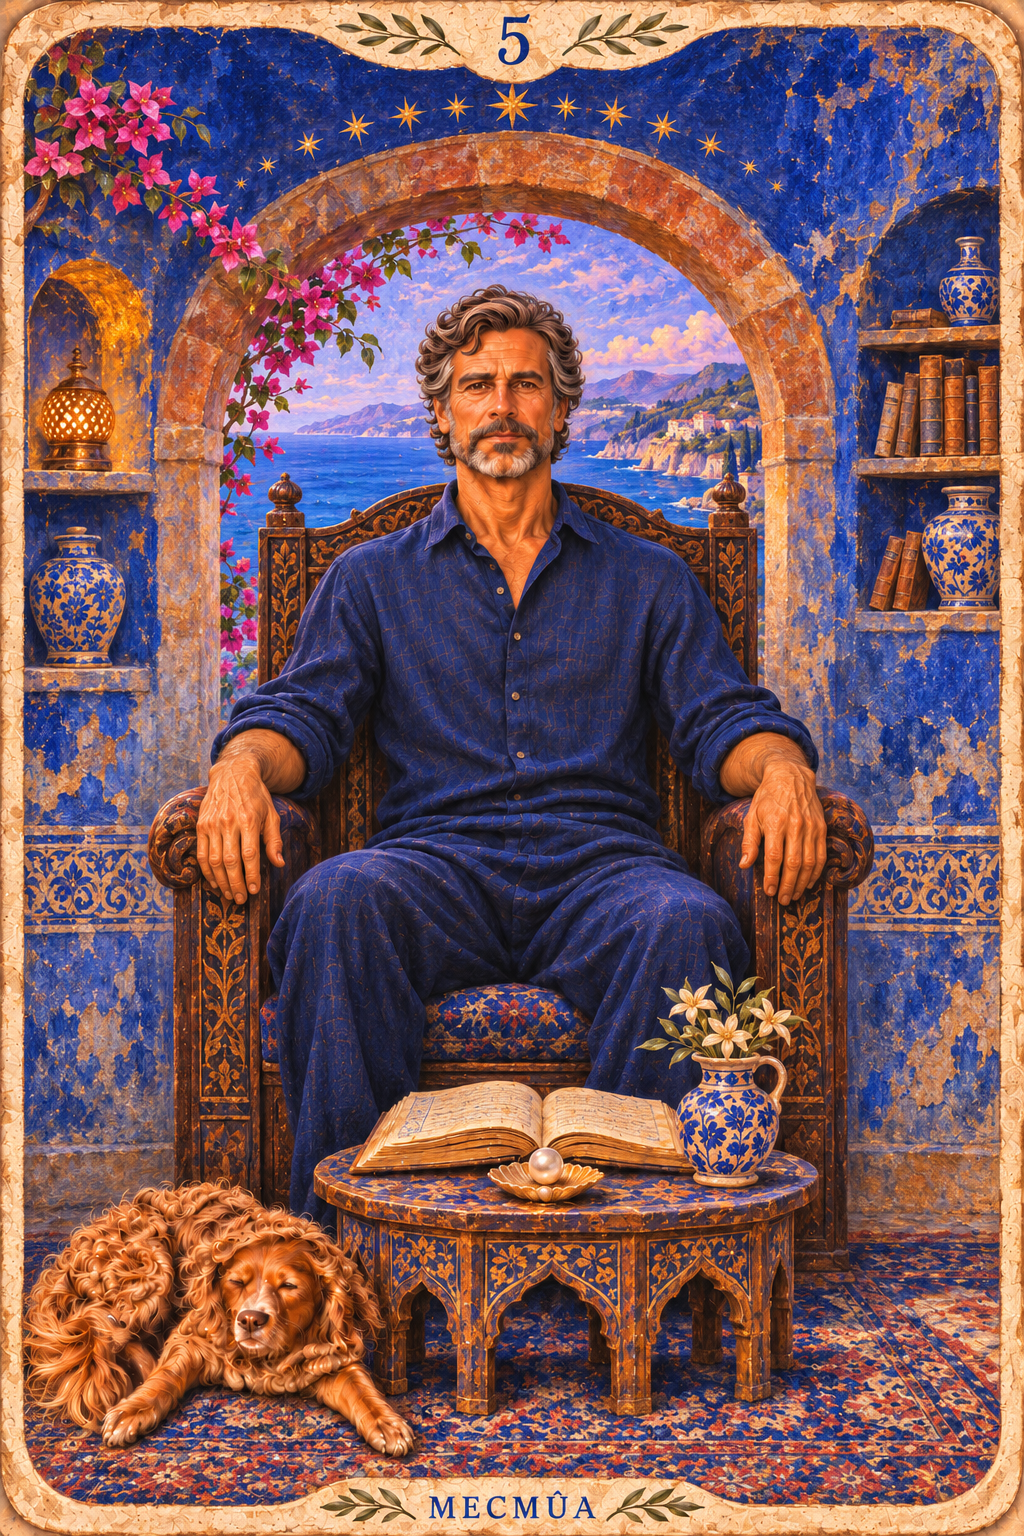
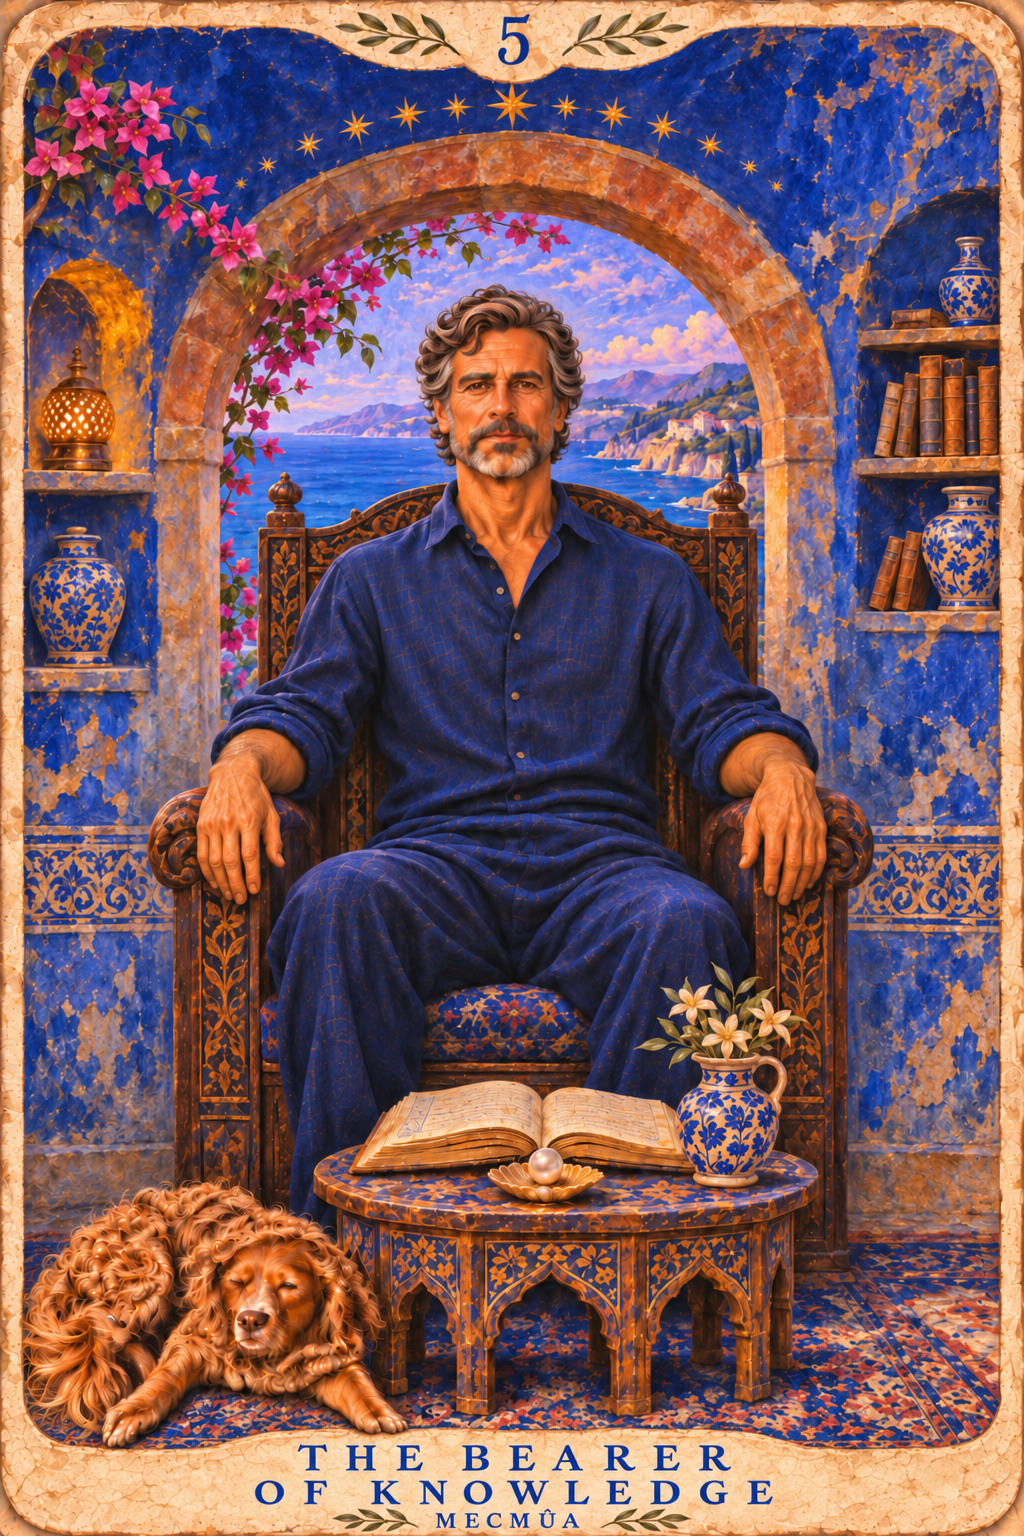
Restore exact uploaded original for card 5

diff --git a/dist/previews/wheel/index.html b/dist/previews/wheel/index.html
@@ -40,7 +40,7 @@ function updateMute(){mute.textContent=muted?'Sound off':'Sound on';mute.setAttr
 function tick(recordedSpin=false){clicker.classList.remove('hit');void clicker.offsetWidth;clicker.classList.add('hit');if(recordedSpin||muted||!context||!buffer||context.state!=='running')return;const now=context.currentTime;if(now-lastVoice<.025)return;lastVoice=now;const click=context.createBufferSource(),gain=context.createGain();click.buffer=buffer;gain.gain.value=.65;click.connect(gain);gain.connect(context.destination);click.start(0,.042,.045);}
 function render(a,recordedSpin=false){const before=Math.floor(angle/step),after=Math.floor(a/step);angle=a;world.style.transform=`rotate(${angle}deg)`;if(before!==after&&!recordedSpin)tick();}
 const cardDialog=document.getElementById('tarot-card'),cardThumb=document.getElementById('result-card'),viewCard=document.getElementById('view-card');function showCard(){const r=instrument.getBoundingClientRect();const cardHeight=Math.min(innerHeight*.54,490,innerWidth*1.2);cardDialog.style.top=Math.max(scrollY+40,scrollY+r.top+r.height*.4785-cardHeight/2)+'px';cardDialog.show();cardDialog.querySelector(".card-turn").focus({preventScroll:true});}document.addEventListener('keydown',e=>{if(e.key==='Escape'&&cardDialog.open)cardDialog.close();});const flipButton=cardDialog.querySelector('.card-turn'),cardBack=cardDialog.querySelector('.card-back'),cardFront=cardDialog.querySelector('.card-front');function setFlip(on){cardDialog.classList.toggle('flipped',on);flipButton.setAttribute('aria-label',on?'Flip card to artwork':'Flip card to read its message');flipButton.setAttribute('aria-pressed',String(on));cardBack.inert=!on;cardBack.setAttribute('aria-hidden',String(!on));cardFront.setAttribute('aria-hidden',String(on));}flipButton.addEventListener('click',()=>setFlip(!cardDialog.classList.contains('flipped')));flipButton.addEventListener('keydown',e=>{if(e.key==='Enter'||e.key===' '){e.preventDefault();setFlip(!cardDialog.classList.contains('flipped'));}});document.addEventListener('pointerdown',e=>{if(cardDialog.open&&!cardDialog.contains(e.target))cardDialog.close();});cardDialog.addEventListener('close',()=>setFlip(false));viewCard.addEventListener('click',()=>showCard());cardDialog.addEventListener('click',e=>{if(e.target===cardDialog){const r=cardDialog.getBoundingClientRect();if(e.clientX<r.left||e.clientX>r.right||e.clientY<r.top||e.clientY>r.bottom)cardDialog.close();}});
-const tarotDeck=[{"number": 0, "title": "The Beginning", "src": "00-the-beginning.png"}, {"number": 1, "title": "Magic", "src": "01-magic.png"}, {"number": 2, "title": "The Sacred", "src": "02-the-sacred.png"}, {"number": 3, "title": "Mother Nature", "src": "03-mother-nature.png"}, {"number": 4, "title": "The Foundation", "src": "04-the-foundation.png"}, {"number": 5, "title": "The Bearer of Knowledge", "src": "05-the-bearer-of-knowledge.png?v=original5"}, {"number": 6, "title": "Choose Love", "src": "06-choose-love.png"}, {"number": 7, "title": "The Time Is Now", "src": "07-the-time-is-now.png"}];
+const tarotDeck=[{"number": 0, "title": "The Beginning", "src": "00-the-beginning.png"}, {"number": 1, "title": "Magic", "src": "01-magic.png"}, {"number": 2, "title": "The Sacred", "src": "02-the-sacred.png"}, {"number": 3, "title": "Mother Nature", "src": "03-mother-nature.png"}, {"number": 4, "title": "The Foundation", "src": "04-the-foundation.png"}, {"number": 5, "title": "The Bearer of Knowledge", "src": "05-the-bearer-of-knowledge.png?v=original5?v=original5"}, {"number": 6, "title": "Choose Love", "src": "06-choose-love.png"}, {"number": 7, "title": "The Time Is Now", "src": "07-the-time-is-now.png"}];
 let drawBag=[];
 function drawTarot(){if(!drawBag.length){drawBag=tarotDeck.slice();for(let i=drawBag.length-1;i>0;i--){const j=Math.floor(Math.random()*(i+1));[drawBag[i],drawBag[j]]=[drawBag[j],drawBag[i]];}}return drawBag.pop();}
 function selectTarot(card){setFlip(false);cardFront.src=card.src;cardFront.alt=card.number+" · "+card.title;cardDialog.setAttribute("aria-label",cardFront.alt);document.querySelector(".note").textContent="Mecmûa · "+cardFront.alt;cardThumb.src=card.src;cardThumb.alt=cardFront.alt;cardBack.innerHTML="<span class=card-number>"+card.number+"</span><h2>"+card.title+"</h2><span class=card-brand>MECMÛA</span>";}
